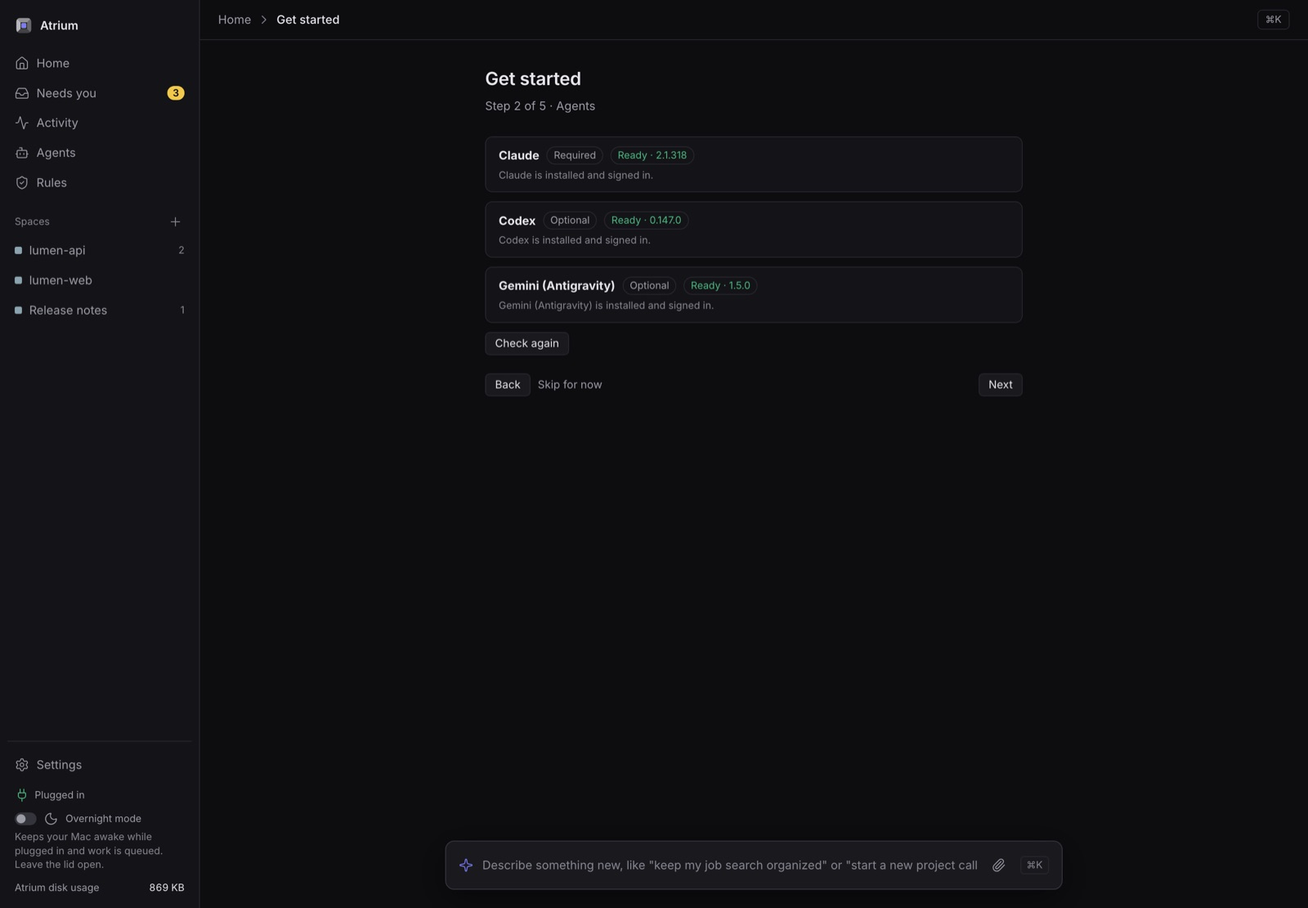
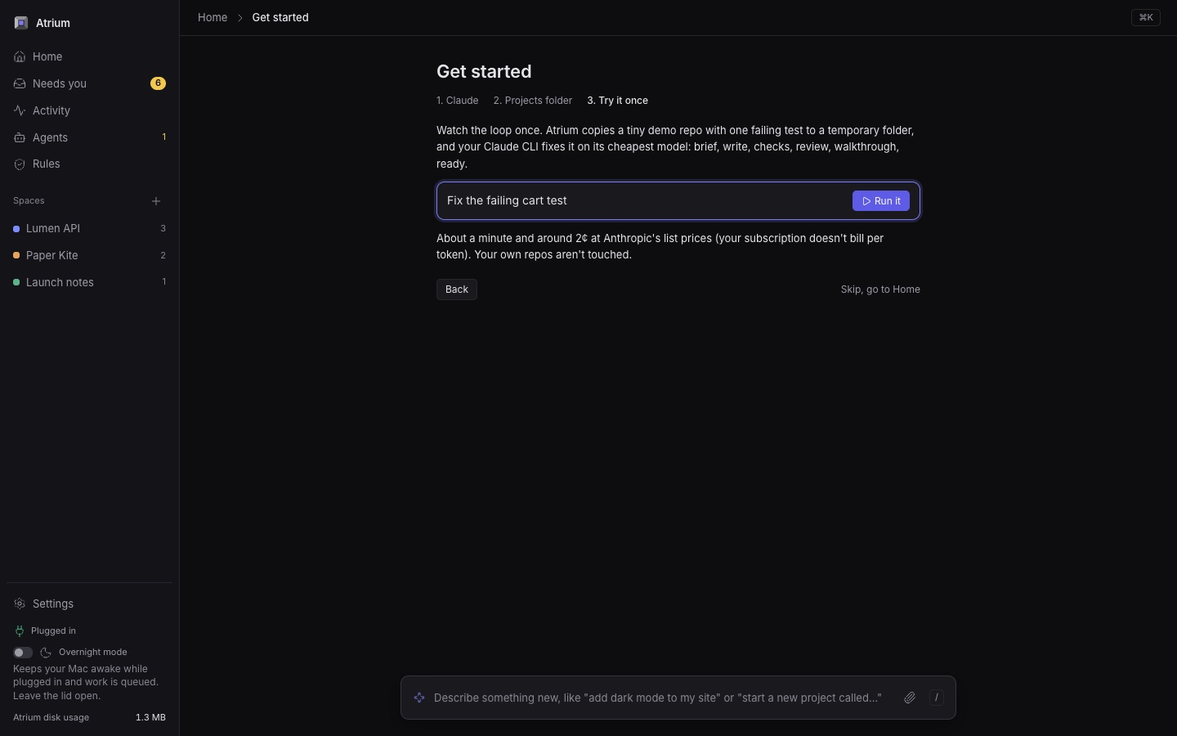
Rewrite the README and docs around the loop, with the research

diff --git a/README.md b/README.md
@@ -1,22 +1,40 @@
 # Atrium
 
-An agent workbench for coding, on your Mac.
+The agent workbench for the new way of coding, on your Mac.
 
-The job has moved from writing code to directing agents and judging what they wrote. Atrium is where that happens: you say what you want, an agent writes it on its own branch, you watch and steer, and nothing lands until you say yes. Everything runs on your Mac, on your own Claude subscription.
+The job has moved from writing code to directing agents and judging what they wrote. Most tools stop at running agents: a branch per task, a live diff, a PR button. Atrium is about the part that decides whether agent work is any good. Every task gets a brief an agent can finish, Atrium runs your checks itself instead of trusting "tests pass", a fresh reviewer reads the diff before you do, and everything that needs you lands in one keyboard-first queue. Along the way it helps you get better at directing agents, with feedback built only from what it measured. It runs on your Mac, on your own Claude subscription, with only the Claude CLI and a folder.
 
-Site: <https://nakulpatel0306.github.io/atrium/>
+Site: <https://nakulpatel0306.github.io/atrium/> · Why it works this way: [docs/why.md](docs/why.md)
 
-![Atrium's Home: finished work waiting for a yes, code spaces, and what happened today](docs/screenshots/home.jpg)
+![Needs you: one queue, longest-waiting first, with a result's walkthrough, checks and review on one screen](docs/screenshots/queue.jpg)
+
+## Quickstart
+
+```sh
+git clone https://github.com/nakulpatel0306/atrium.git && cd atrium
+bun install && bun link
+atrium install && atrium open
+```
+
+Get started checks your Claude CLI (with the install command if it's missing), asks for your projects folder, and offers a sample task: a tiny bundled repo with one failing test, copied to a temp folder, fixed by your Claude CLI on its cheapest model while you watch the whole loop. It takes about a minute and costs around 2¢ at list prices. Skip it if you'd rather start on your own repo.
+
+## What Atrium does differently
+
+- **The loop, every time.** Brief → write → verify → review → you. The engine runs the repo's own checks after every turn in a sandboxed checkout of their own, and a clean-context reviewer judges mergeability against the brief. Results that couldn't be proven are labelled as such. In published studies, about 44% of agent failures trace to the spec and 24% to verification, and about half of agent PRs that passed a benchmark's tests still weren't mergeable.
+- **The right shape, cheaper.** One writer by default, read-only scouts for broad reading, a split or best-of-N only on your click. A cheap model drafts briefs and explanations, a strong one reviews, sessions stay warm in the prompt cache, and every task shows its tokens and a list-price estimate. Controlled studies found multi-agent setups lose 39–70% on sequential work.
+- **Learning, both kinds.** A walkthrough on every result, "explain this hunk" on any change, the diagnosis first when an agent is stuck, and a director retro built only from measured numbers. Developers who asked for explanations after generating code scored 86% on a follow-up quiz against 39% for pure delegation. Nothing here is a gate.
+- **One queue for everything that needs you.** Approvals, questions, pauses and proposals, longest-blocked first, each opening to one screen with the brief, checks, findings and walkthrough. j/k to move, a to approve, s to send back, Shift-A to approve every clean result at once. The terminal app and the Mac app's badge read the same queue.
 
 ## What works today
 
 - **Code spaces.** Point a space at a repo on your Mac or on GitHub. Every task runs on its own `atrium/<taskId>` branch, and Atrium never checks out over your uncommitted changes.
-- **Live diff and steer.** Watch the diff grow while the agent works, and send it a note to change course without starting over.
+- **Live diff and steer.** Watch the diff grow while the agent works, and send it a note to change course without starting over. Finished work shows each turn's commit on its own, unified or side by side.
 - **Pull requests.** Approve the work and Atrium pushes the branch and opens the PR. Starting a new project creates the GitHub repo too. Both wait for your yes.
-- **Attachments.** Drop files or screenshots into the ask bar and the agent works from them.
-- **Approvals.** Everything that needs you waits in **Needs you**, with the agent's own word on how it went: done, partly done or couldn't. Rules can approve kinds of work you keep approving; pushes, merges, deploys, deletes and anything that costs money always ask.
-- **Claude, Codex and Gemini.** Claude runs on your subscription through the Claude Code CLI. Add Codex or Gemini and Atrium routes code work between them, or you pick one per task.
-- **Sandboxing.** Agents can't read your keys, `.env` files or passwords, can't reach Atrium's own API, and can't drive other apps.
+- **Rules.** When you keep approving one kind of result unchanged, Atrium suggests approving it on its own; you can undo any of those approvals. Pushes, merges, deploys, deletes and anything that costs money always ask.
+- **⌘K for everything.** Every action by name: a new task, any space or task, approving a clean result, switching a task's shape, the learning dial, the theme.
+- **Light and dark**, following your Mac unless you pick one; keyboard everywhere, visible focus, AA contrast in both, and reduced motion respected.
+- **Claude, Codex and Gemini.** Claude runs on your subscription through the Claude Code CLI. Add Codex or Gemini and Atrium can use them as writers or as a second-vendor reviewer.
+- **Sandboxing.** Agents can't read your keys, `.env` files or passwords, can't reach Atrium's own API, and can't drive other apps. Only Atrium pushes, and only after your yes.
 - **General spaces** for the work around the code: notes, release drafts and docs, as files in a folder you can open in Finder.
 
 ## How it works: the loop
@@ -59,8 +77,10 @@ All screenshots come from a throwaway engine with fake agents and made-up repos.
 
 | | |
 |---|---|
-| ![Get started, step 2 of 5: checking that Claude, Codex and Gemini are installed and signed in](docs/screenshots/setup.jpg) | |
-| **Get started** checks your agents and walks you through setup. | |
+| ![Changes side by side, with the turn picker and the walkthrough above](docs/screenshots/changes.jpg) | ![The command palette finding "approve"](docs/screenshots/palette.jpg) |
+| **Changes**: all of a task's changes or one turn's, unified or split. | **⌘K**: every action by name. |
+| ![Get started's last step: the sample task with its cost shown first](docs/screenshots/setup.jpg) | ![The queue in the light theme](docs/screenshots/queue-light.jpg) |
+| **Get started**: Claude, a folder, and the loop once on a demo repo. | **Light theme**, from your Mac's setting or ⌘K. |
 
 ## Requirements
 
@@ -78,16 +98,16 @@ cd atrium
 bun install
 bun link             # puts `atrium` on your PATH
 atrium install       # starts Atrium now and at every login
-atrium app install   # adds Atrium.app to ~/Applications
+atrium app install   # optional: adds Atrium.app to ~/Applications
 ```
 
 Don't move or delete the folder after `atrium install`: the login service points at it. To move it, run `atrium uninstall`, move it, and install again.
 
 ## First run
 
-Open the app (or run `atrium open`). On a fresh install, **Get started** walks you through five short steps: a welcome, your agents (Claude Code is required, Codex and Gemini are optional), the GitHub CLI, your name and projects folder, and Done. You can skip everything except Claude and come back from **Settings → Get started**.
+Open the app (or run `atrium open`). On a fresh install, **Get started** has three steps: Claude (required; Codex, Gemini and the GitHub CLI are listed as optional, with their install commands), your projects folder (prefilled), and the sample task, which you can skip. Come back to it from **Settings → Get started**.
 
-From a terminal, `atrium doctor` shows the same checks, with the install and sign-in command for anything missing.
+From a terminal, `atrium doctor` shows the same checks in the same order, with the install and sign-in command for anything missing.
 
 ## Privacy and safety
 
@@ -100,20 +120,16 @@ From a terminal, `atrium doctor` shows the same checks, with the install and sig
 
 ## Known limits
 
-- macOS only.
-- An older database keeps the tables of features that were removed (investing, money, mail and calendar, texting) until you remove them (see Privacy and safety). Atrium reads them only to list them for removal; spaces of those kinds show as plain private spaces.
+- macOS only, Apple silicon.
+- Checks are evidence, not proof: the writer can still weaken a test's assertion without skipping or deleting it. The reviewer and you see the diff. [docs/loop.md](docs/loop.md) lists every known way a change can alter what its checks mean, and which stay open.
+- Codex's subagents can't be switched off completely in codex-cli 0.147; they run inside the same sandbox as the writer.
+- Atrium sees Claude's five-hour window only when a run reports it, so use in other Claude apps shows up at Atrium's next run.
+- The sample task's repo stays in your temp folder, and its space stays in the sidebar until you archive or delete it.
+- An older database keeps the tables of features that were removed (investing, money, mail and calendar, texting) until you remove them (see Privacy and safety).
 
 ## For developers
 
-```sh
-bun test ./tests/engine   # run tests in groups: engine, server, dashboard,
-bun test ./tests/server   # e2e, tui, mac, copy, cli.test.ts, main.test.ts
-bunx tsc --noEmit
-bun run leak-check
-ATRIUM_DEV=1 ATRIUM_HOME=$(mktemp -d) ATRIUM_PORT=7421 bun src/main.ts
-```
-
-See [CONTRIBUTING notes in CLAUDE.md](CLAUDE.md) and the [docs](docs/README.md). Screenshots go in `docs/screenshots/`.
+See [CONTRIBUTING.md](CONTRIBUTING.md): running a dev engine beside your own, the test groups, the copy rules and the leak check. [docs/architecture.md](docs/architecture.md) shows how the engine, the dashboard, the terminal app and the Mac app fit together, and [docs/loop.md](docs/loop.md) is the reference for how a task runs.
 
 ## License
 

diff --git a/docs/loop.md b/docs/loop.md
@@ -90,7 +90,7 @@ The writer and the checks share a codebase, so tampering can't be made impossibl
 
 ## The reviewer
 
-Once the checks pass (or there are none), a fresh session reviews only the diff and the brief. It knows nothing of the writer's session. The space picks the reviewer:
+Once the checks pass (or there are none), a fresh session reviews only the diff and the brief, and is told which checks Atrium ran and how they came out, so it doesn't ask for a test run that already happened. It knows nothing of the writer's session. The space picks the reviewer:
 
 - **Auto** (the default) uses Codex, then Gemini, when one is installed and allowed in that space, else a fresh Claude session. Private spaces (the default for new spaces) and repos with `.env` files are Claude only.
 - Or pin one agent, or turn review off.
@@ -130,7 +130,7 @@ The engine reads the proposal as untrusted and checks it against the task before
 - Best-of-N needs checks Atrium can run and isn't for small tasks.
 - Anything else becomes one writer, with the engine's reason ("Two of the parts touch the same files, so one writer does it.").
 
-The task shows the reason ("Single writer: sequential change in one module") and, until the writer starts, a one-click change among the shapes the task can take; the ones it can't take say why. Enter always runs at once: **single** and **scouts** run as proposed, and a proposed **split** or **best_of_n**, which cost more, runs as one writer meanwhile, with the proposal on the task as a suggestion and its estimate (the space's recent tasks times the fan-out, or each run's budget as the ceiling): "Could run as 2 parts: … (est. ~$0.04) · Split instead". Nothing waits in **Needs you** for a shape alone. Clicking the suggestion stops the writer, starts the task over from the brief as that shape and then removes the writer's branch (only if it's still where Atrium left it); it's offered until the task reaches review, and a writer that finished before the stop landed keeps its result. The ⌘↩ card offers the same choice before anything runs, and leaving a costlier shape chosen there is the click. Only a user's choice approves a shape: a stored `approved` must be a literal `true`, a shape that reads oddly is no shape, and a task that is itself a part or an attempt never fans out.
+The task shows the reason ("Single writer: sequential change in one module") and, until the writer starts, a one-click change among the shapes the task can take; the ones it can't take say why. Enter always runs at once: **single** and **scouts** run as proposed, and a proposed **split** or **best_of_n**, which cost more, runs as one writer meanwhile, with the proposal on the task as a suggestion and its estimate (the space's recent tasks times the fan-out, or each run's budget as the ceiling): "Could run as 2 parts: … (est. ~$0.04) · Split instead". Nothing waits on a shape alone: while the writer runs, the suggestion is a low-priority item at the end of **Needs you**, never counted. Clicking the suggestion stops the writer, starts the task over from the brief as that shape and then removes the writer's branch (only if it's still where Atrium left it); it's offered until the task reaches review, and a writer that finished before the stop landed keeps its result. The ⌘↩ card offers the same choice before anything runs, and leaving a costlier shape chosen there is the click. Only a user's choice approves a shape: a stored `approved` must be a literal `true`, a shape that reads oddly is no shape, and a task that is itself a part or an attempt never fans out.
 
 ### Scouts
 
@@ -160,7 +160,7 @@ One table in `src/engine/tiers.ts`, changeable under Agents:
 - **default** (empty: whatever model Claude Code is set to): writing.
 - **strong** (`opus`, falling back to `sonnet` when it isn't on the plan): a Claude reviewer, a writer the user had to unstick after a pause (a hint or a retry of a paused task), and the best-of-N judge.
 
-The defaults work on a plain Claude subscription. Codex and Gemini keep their own models. This follows the evidence that cheap models are enough for exploration and summaries and that the strongest model pays off on review and hard debugging (Anthropic's advisor results; Cognition's capability routing).
+The defaults work on a plain Claude subscription. Codex and Gemini keep their own models. The first-run sample task runs every Claude call on the cheap tier, so the cost Get started shows before it runs holds. This follows the evidence that cheap models are enough for exploration and summaries and that the strongest model pays off on review and hard debugging (Anthropic's advisor results; Cognition's capability routing).
 
 ## Cost
 
@@ -207,8 +207,17 @@ When you steer with what reads as a correction (a fixed word rule: "don't", "can
 - **The steer gate and pattern matching are fixed word rules.** A correction worded without those words ("prefer the helper") asks nothing, and a finding about patterns that avoids the matched words never pairs up.
 - **Spots link by file and line from the reviewer's reply.** A line number outside every hunk of that file opens its first hunk.
 
+## You: one queue
+
+Everything that needs you is one queue, defined once in `src/engine/needs.ts` and read by the dashboard, the terminal app, the Mac app's badge and `atrium status`: results to approve or send back, questions, a brief's questions, a split's parts or best-of-N's attempts to decide on, a split with a part that stopped, and budget or loop pauses. CLAUDE.md proposals and a running task's suggested split or best-of-N are listed too, last, as low-priority items that are never counted. The queue runs longest-blocked first, with ties grouped by space.
+
+**Needs you** shows the queue beside one screen per item with everything needed to decide: the brief, the checks and the end of any failing output, attention notes, each review finding and how it was answered, the walkthrough, the retro and the way into the diff. The keys are j and k to move, Enter to open, a to approve, s to send back with a note, x to stop a running task, e for "Explain the problem instead" on a paused one, Shift-A for every clean result at once, and ? for the list; the terminal app's Home works the same way. An approval can be taken back from its toast for a minute, while nothing else has happened to the task.
+
+Several results can be approved in one go only when each is clean: checks passed, no attention notes, nothing unverified, every review finding fixed and no review that failed to happen. Anything else is never offered there, its Approve button reads "Approve anyway", and the engine checks each again before it approves. The Changes view shows all of a task's changes or one turn's commit on its own, unified or side by side.
+
 ## Where it lives
 
+- `src/engine/needs.ts`: what needs you, the queue's order and what can be approved together; `sample.ts`: the first-run sample.
 - `src/engine/brief.ts`, `brief-draft.ts`: the brief and its pre-pass.
 - `src/engine/checks/`: detection (`detect.ts`), the sandboxed runs and what they prove (`run.ts`, `sandbox.ts`), the check checkout, base results and install (`gate.ts`), and the attention notes (`attention.ts`).
 - `src/engine/loop.ts`: loop state, budgets and loop detection.

diff --git a/docs/why.md b/docs/why.md
@@ -1,0 +1,58 @@
+# Why Atrium works the way it does
+
+Atrium's design follows what published studies and engineering write-ups say about coding with agents. This is a short summary of that evidence and the design choice each finding led to. The numbers are the sources' own; where a source is a first-party write-up rather than a controlled study, it says so.
+
+## Most failures come from the spec and the check, not from too few agents
+
+- **MAST** (Cemri et al., NeurIPS 2025) annotated more than 1,600 traces from seven multi-agent frameworks. About 44% of failures traced to specification and system design (ignoring the task spec, repeating steps, not knowing when the task is done) and about 24% to weak or missing verification. [1]
+- **METR** had maintainers review agent pull requests that already passed SWE-bench's automated tests. Roughly half would not have been merged. [2]
+
+So every task in Atrium starts from a **brief** with acceptance criteria and a check, Atrium **runs the repo's checks itself** after every turn instead of trusting an agent's "tests pass", and a **fresh reviewer** reads the diff for mergeability before it reaches you. See [the loop](loop.md).
+
+## One writer is the right default
+
+- **Google Research**'s controlled study of 180 agent configurations found multi-agent setups gained 81% on parallelisable tasks and lost 39–70% on sequential ones. Independent agents amplified errors 17.2×; a central orchestrator cut that to 4.4×. [3]
+- **Anthropic**'s multi-agent research system beat a single agent by 90.2% on breadth-first research, at about 15× the tokens of a chat, and Anthropic notes that most coding has fewer truly parallel parts than research. (First-party write-up.) [4]
+- **Cognition** reversed its "don't build multi-agents" advice only for setups where writes stay single-threaded, and reports that a reviewer with no shared context finds real bugs the writer stopped seeing. (First-party write-up.) [5][6]
+- **Debate or Vote** (Choi et al., NeurIPS 2025): independent samples plus selection account for most of what multi-agent debate gains. [7]
+
+So Atrium runs **one writer** by default, uses **read-only scouts** for breadth, offers a **split** only for independent parts on separate branches, and **best-of-N** only for uncertain work the checks can judge, always on your click.
+
+## Tokens: cache, route, and don't fan out
+
+- Prompt-cache reads cost about a tenth of fresh input, and only a stable prefix hits the cache. [8]
+- Anthropic's **advisor** pattern (a cheaper model doing the work, a stronger one consulted at hard moments) scored 2.7 points higher on SWE-bench Multilingual at 11.9% lower cost. (First-party write-up.) [9]
+- Sampling several attempts and selecting with tests raised Claude Sonnet 4.5 from 77.2% to 82.0% on SWE-bench Verified, at N times the tokens. [10]
+
+So Atrium keeps a writer's Claude session warm within the cache window, puts what doesn't change first in every prompt, runs briefs, scouts and explanations on a **cheap model** and review on a **strong** one, and shows each task's tokens and a list-price estimate.
+
+## People learn when they ask why, and misjudge their own speed
+
+- In **Anthropic's randomized study** of 52 developers learning a new library with AI help, those who generated code and then asked for an explanation scored 86% on a follow-up quiz, against 39% for pure delegation, for about four and a half extra minutes. Pasting errors back repeatedly scored lowest. [11]
+- Cognitive-forcing designs (decide first, then see the answer) reduce over-reliance on AI, but people dislike them, so they have to stay light and optional. [12]
+- **METR**'s 2025 trial found experienced developers were 19% slower with early-2025 tools while believing they were 20% faster. [13]
+
+So Atrium adds a **walkthrough** to each result, **explain this hunk** on any change, an optional **predict-then-reveal** question, and the **diagnosis first** when an agent is stuck, none of them a gate. Its **director retro** is built only from measured numbers, never from how a task felt.
+
+## Short, human-curated project notes beat generated ones
+
+- An ETH Zürich study of repository context files found generated AGENTS.md files slightly lowered success and raised cost by about 20%, while short, targeted, human-written ones helped modestly. [14]
+
+So Atrium never writes a CLAUDE.md wholesale. It proposes one line at a time, and only your click commits it.
+
+## Sources
+
+1. Cemri et al., "Why Do Multi-Agent LLM Systems Fail?", arXiv 2503.13657, NeurIPS 2025. <https://arxiv.org/abs/2503.13657>
+2. METR, "Many SWE-bench-Passing PRs Would Not Be Merged into Main", 2026-03-10. <https://metr.org/notes/2026-03-10-many-swe-bench-passing-prs-would-not-be-merged-into-main/>
+3. Google Research, "Towards a science of scaling agent systems", 2026-01-28; arXiv 2512.08296. <https://arxiv.org/abs/2512.08296>
+4. Anthropic, "How we built our multi-agent research system", 2025-06-13. <https://www.anthropic.com/engineering/multi-agent-research-system>
+5. Cognition, "Don't Build Multi-Agents", 2025-06-12. <https://cognition.ai/blog/dont-build-multi-agents>
+6. Cognition, "Multi-Agents: What's Actually Working", 2026-04-22. <https://cognition.com/blog/multi-agents-working>
+7. Choi, Zhu, Li, "Debate or Vote: Which Yields Better Decisions in Multi-Agent LLMs?", arXiv 2508.17536, NeurIPS 2025. <https://arxiv.org/abs/2508.17536>
+8. Anthropic, prompt caching documentation. <https://platform.claude.com/docs/en/build-with-claude/prompt-caching>
+9. Anthropic, "The advisor strategy", 2026-04-09. <https://claude.com/blog/the-advisor-strategy>
+10. Anthropic, "Introducing Claude Sonnet 4.5", 2025-09-29. <https://www.anthropic.com/news/claude-sonnet-4-5>
+11. Shen and Tamkin, "How AI assistance impacts the formation of coding skills", Anthropic, 2026-01-29; arXiv 2601.20245. <https://www.anthropic.com/research/AI-assistance-coding-skills>
+12. Buçinca, Malaya, Gajos, "To Trust or to Think: Cognitive Forcing Functions Can Reduce Overreliance on AI", CSCW 2021. <https://doi.org/10.1145/3449287>
+13. METR, "Measuring the Impact of Early-2025 AI on Experienced Open-Source Developer Productivity", 2025-07-10. <https://metr.org/blog/2025-07-10-early-2025-ai-experienced-os-dev-study/>
+14. "Evaluating AGENTS.md: Are Repository-Level Context Files Helpful for Coding Agents?", arXiv 2602.11988, 2026. <https://arxiv.org/abs/2602.11988>

diff --git a/CONTRIBUTING.md b/CONTRIBUTING.md
@@ -1,0 +1,50 @@
+# Contributing
+
+Thanks for looking. Atrium is a bun/TypeScript engine with a React dashboard, an Ink terminal app and a small Swift Mac app. The rules every change follows are in [CLAUDE.md](CLAUDE.md); how a coding task runs is in [docs/loop.md](docs/loop.md); how the pieces fit is in [docs/architecture.md](docs/architecture.md).
+
+## Set up
+
+```sh
+bun install
+ATRIUM_HOME=$(mktemp -d) ATRIUM_PORT=7421 bun src/main.ts   # a dev engine beside any installed one
+```
+
+A dev engine needs its own `ATRIUM_HOME` and a port other than 7420, so it never touches a real install. Point it at the fake agents in `tests/fixtures` (`ATRIUM_CLAUDE_BIN=tests/fixtures/fake-claude.ts`, and the same for Codex, Gemini and `gh`) to work on the interface without spending tokens.
+
+## Tests
+
+Run the suite in groups, passing each path as its own argument. Plain `bun test` runs only `tests/` (see `bunfig.toml`): the sample repo under `assets/` has a test that fails on purpose.
+
+```sh
+bun test tests/engine --timeout 120000
+bun test tests/server tests/dashboard
+bun test tests/tui tests/copy
+bun test tests/cli.test.ts tests/main.test.ts
+bun test tests/e2e
+bun test tests/mac
+bunx tsc --noEmit
+```
+
+- No test reaches the network. Agents, `gh`, `open` and the Keychain are fakes from `tests/fixtures`.
+- Every test sets `ATRIUM_HOME` to a temp folder (`tempHome()` in `tests/helpers.ts`).
+- Behaviour changes come with a test first. The queue and the diff view have render budgets in `tests/dashboard`; keep them passing.
+- `tests/copy` checks interface wording against [docs/copy-inventory.md](docs/copy-inventory.md): sentence-case buttons, real ellipses, errors that say what to do next.
+- Database migrations only add, and each gets a test against a database shaped like an older install.
+
+## Before you share a branch
+
+```sh
+bun run leak-check                        # names, paths and secrets that mustn't be in a public repo
+bun run leak-check --denylist ~/my-terms  # plus your own private terms, kept outside the repo
+```
+
+- Test data is always made up: invented names and `example.com` addresses.
+- Screenshots for the README come from a throwaway engine with made-up data and fake agents, never a real install.
+- Commits are small, with an imperative subject under 72 characters and no `Co-Authored-By` or "Generated with" trailers.
+
+## Design rules worth knowing
+
+- Anything a model produces is a proposal: it never widens what runs, raises a budget or picks a command the checks trust. Untrusted text reaches a prompt fenced.
+- Every Claude call goes through the adapter in `src/engine/agents/claude.ts` with an explicit, minimal `--tools` list.
+- What counts as needing the user lives in one place, `src/engine/needs.ts`, and every surface (dashboard, terminal app, Mac app, `atrium status`) reads it.
+- Stored state is read field by field over strict defaults, so an older or odd value never breaks a newer engine.

diff --git a/docs/architecture.md b/docs/architecture.md
@@ -24,17 +24,21 @@ An adapter per CLI: `claude` (the Claude Code CLI on your subscription), `codex`
 
 Claude runs inside Claude Code's own sandbox with settings Atrium pins. Codex and Gemini run inside a `sandbox-exec` profile. Both block credentials, loopback (so an agent can't call Atrium's API), Apple Events, `open` and Shortcuts. Agents never see `.env` files, keys or tokens.
 
+## What needs you
+
+`src/engine/needs.ts` is the one definition of what's waiting on the user, imports nothing but types, and every surface reads it: the dashboard's queue, the terminal app's Home, the Mac app's badge and notifications (through `/api/summary`) and `atrium status`. It also decides which results may be approved together, and the engine checks that rule again before a batch approval.
+
 ## Draft-and-wait
 
 Anything that leaves the Mac is done by the engine, never an agent, and only after the user's yes: a push, a new GitHub repo. The agent drafts; Atrium stores the draft on an approval card in **Needs you**; pressing Approve is the only path to the action. Standing rules can pre-approve some results, and every rule decision is logged and can be undone.
 
 ## The dashboard
 
-A React app (`src/dashboard`) served by the engine on the same port and kept live by a WebSocket. It includes the Get started wizard, Settings and every space view.
+A React app (`src/dashboard`) served by the engine on the same port and kept live by a WebSocket. It includes Get started (Claude, a projects folder, and an optional sample task that copies `assets/sample-repo` to a temp folder and runs the loop on it), Needs you (the queue beside one decision screen per item), every space view and Settings. ⌘K opens a command palette of every action by name, built from state in `palette.ts`; / goes to the ask bar. Styles are one CSS file on design tokens (colour, type, radius, motion) with a dark and a light set, following the Mac's setting unless the palette picks one. Long lists draw only what's in view, off-screen diff files skip layout, and render budgets for the queue and the diff view are part of the test suite.
 
 ## The terminal app
 
-`atrium` with no arguments starts an Ink app (`src/tui`) that talks to the engine over the same HTTP API as the dashboard.
+`atrium` with no arguments starts an Ink app (`src/tui`) that talks to the engine over the same HTTP API as the dashboard. Its Home is the same queue in the same order, with the same keys.
 
 ## The Mac app
 

diff --git a/docs/README.md b/docs/README.md
@@ -1,7 +1,8 @@
 # Atrium docs
 
 - [Architecture](architecture.md): how the engine, spaces, tasks, agents and apps fit together.
-- [The loop](loop.md): the brief, the checks, the reviewer, budgets and loop detection, and the gate's threat model.
+- [The loop](loop.md): the brief, the checks, the reviewer, budgets and loop detection, the queue, and the gate's threat model.
+- [Why it works this way](why.md): the research behind the design, with sources.
 - [Copy inventory](copy-inventory.md): the wording used across the interface, and the rules for it.
 - [Brand](brand/): logo files.
 
